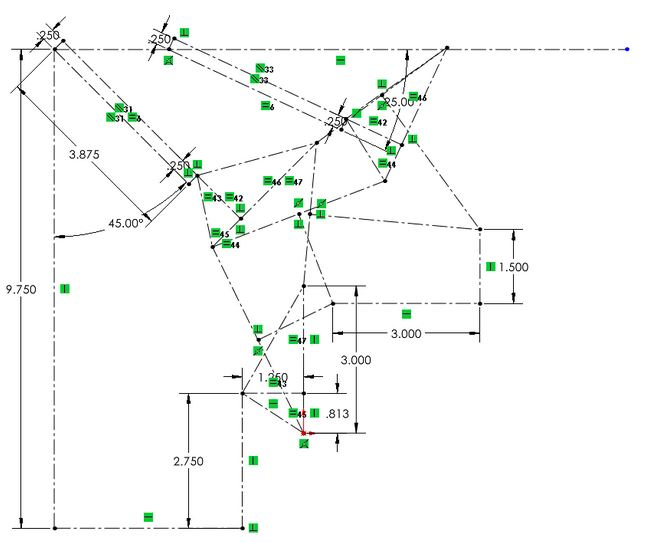
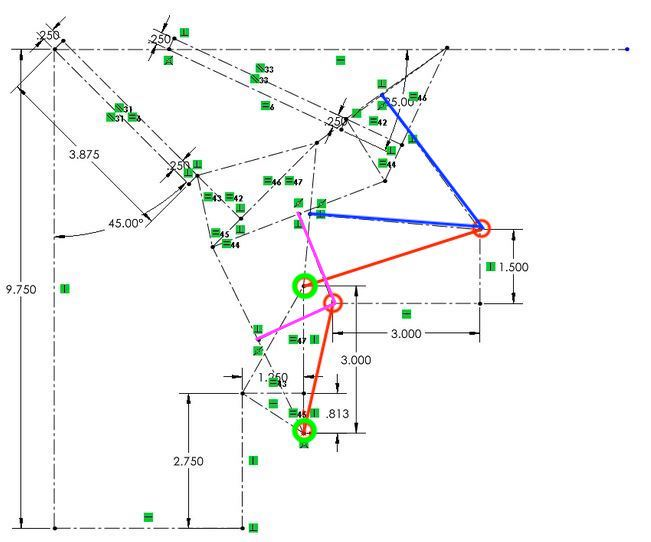
finally finished my RBE 2001 work. now time to move onto RBE 2002

diff --git a/rbe2001.html b/rbe2001.html
@@ -1,140 +1,239 @@
-<!DOCTYPE HTML>
+<!DOCTYPE html>
 <!--
 	Massively by HTML5 UP
 	html5up.net | @ajlkn
 	Free for personal and commercial use under the CCA 3.0 license (html5up.net/license)
 -->
 <html>
-	<head>
-		<title>Cristobal's Portfolio</title>
-		<meta charset="utf-8" />
-		<meta name="viewport" content="width=device-width, initial-scale=1, user-scalable=no" />
-		<link rel="stylesheet" href="assets/css/main.css" />
-		<noscript><link rel="stylesheet" href="assets/css/noscript.css" /></noscript>
-	</head>
-	<body class="is-preload">
+  <head>
+    <title>Cristobal's Portfolio</title>
+    <meta charset="utf-8" />
+    <meta
+      name="viewport"
+      content="width=device-width, initial-scale=1, user-scalable=no"
+    />
+    <link rel="stylesheet" href="assets/css/main.css" />
+    <noscript
+      ><link rel="stylesheet" href="assets/css/noscript.css"
+    /></noscript>
+  </head>
+  <body class="is-preload">
+    <!-- Wrapper -->
+    <div id="wrapper" class="fade-in">
+      <!-- Header -->
+      <header id="header">
+        <a href="index.html" class="logo">Cristobal's Portfolio</a>
+      </header>
 
-		<!-- Wrapper -->
-			<div id="wrapper" class="fade-in">
+      <!-- Nav -->
+      <nav id="nav">
+        <ul class="links">
+          <li><a href="index.html">About Me</a></li>
+          <li><a href="portfolio.html">Portfolio</a></li>
+          <li class="active">
+            <a href="rbe2001.html">Unified Robotics I: Actuation</a>
+          </li>
+        </ul>
+        <ul class="icons">
+          <li>
+            <a
+              href="https://www.linkedin.com/in/cristobalrincon/"
+              class="icon brands fa-linkedin"
+              ><span class="label">Linkedin</span></a
+            >
+          </li>
+          <li>
+            <a href="https://github.com/terracris" class="icon brands fa-github"
+              ><span class="label">GitHub</span></a
+            >
+          </li>
+        </ul>
+      </nav>
 
-				<!-- Header -->
-					<header id="header">
-						<a href="index.html" class="logo">Cristobal's Portfolio</a>
-					</header>
+      <!-- Main -->
+      <div id="main">
+        <!-- Featured Post -->
+        <article class="post featured">
+          <header class="major">
+            <span class="date">January, 2022</span>
+            <h2>Unified Robotics I: Actuation</h2>
+          </header>
+          <h3 style="text-align: left">Description</h3>
+          <p>
+            The final project task is to simulate robots tasked with replacement
+            of solar collector panels on planet with two suns. There will be two
+            types of solar collectors mounted at two different angles (see image
+            below). On each side of the solar farm roof there will be an old
+            solar panel. Teams will be required to have at least two different
+            robots with different fourbar designs, one with a regular
+            servo-actuated gripper, and one with a continuous rotation
+            servo-actuated gripper. <br />
+            <br />
 
-				<!-- Nav -->
-					<nav id="nav">
-						<ul class="links">
-							<li><a href="index.html">About Me</a></li>
-							<li><a href="portfolio.html">Portfolio</a></li>
-							<li class="active"><a href="rbe2001.html">Unified Robotics I: Actuation</a></li>
-						</ul>
-						<ul class="icons">
-							<li><a href="https://www.linkedin.com/in/cristobalrincon/" class="icon brands fa-linkedin"><span class="label">Linkedin</span></a></li>
-							<li><a href="https://github.com/terracris" class="icon brands fa-github"><span class="label">GitHub</span></a></li>
-						</ul>
-					</nav>
+            The first robot will need to autonomously remove an old panel and
+            place it on the staging block. The old panel will be replaced with a
+            new panel, which the robot will pick up and place it on the empty
+            spot on the roof. The first robot will then need to move to the
+            other side of the field and start line following as if to pick up
+            the old panel from the other side of the roof. The team will pause
+            the first robot with the IR remote and replace it with the second
+            robot in the same position. The second robot will proceed to remove
+            the old panel and replace it with a new panel.
+          </p>
+          <img class="image main" src="rbe2001/2001_arena.JPG" alt="" />
+          <p style="text-align: center">Arena in simulated environment</p>
 
-				<!-- Main -->
-					<div id="main">
+          <h3 style="text-align: left">Execution</h3>
+          <p>
+            In our robotics project, we utilized a differential drive robot, 
+			specifically the Pololu Romi, and were tasked with the development 
+			of two four-bar linkages and grippers. Let's delve into the process 
+			of synthesizing a four-bar linkage for a gripper.
+          </p>
 
-					<!-- Featured Post -->
-							<article class="post featured">
-								<header class="major">
-									<span class="date">January, 2022</span>
-									<h2>Unified Robotics I: Actuation</h2>
-								</header>
-									<h3 style="text-align: left;">Description</h3>
-                                    <p>The final project task is to simulate robots tasked with replacement of solar collector panels on
-                                        planet with two suns. There will be two types of solar collectors mounted at two different
-                                        angles (see image below). On each side of the solar farm roof there will be an old solar panel.
-                                        Teams will be required to have at least two different robots with different fourbar designs, one
-                                        with a regular servo-actuated gripper, and one with a continuous rotation servo-actuated
-                                        gripper. <br/> <br/>
+          <h4>Four-bar Synthesis</h4>
+          <img src="rbe2001/gripper_synthesis_pt1.JPG" alt="" />
+          <p>
+            We commenced our four-bar synthesis by taking inspiration from an initial 
+			gripper design. The first step involved identifying three crucial points of 
+			contact essential for effectively grasping a "solar panel" or plate. Notably, 
+			the attachment points on the right-hand side of the gripper served as the connection points 
+			between the gripper and the four-bar mechanism. Additionally, we considered a 
+			fixed point on the gripper, where the "solar panel" would come into contact, as 
+			a universal point in our four-bar analysis. This universal point remained consistent 
+			regardless of the gripper's orientation, leading us to disregard the dynamic bottom jaw 
+			whose position wasn't absolute.
+          </p>
+          <img src="rbe2001/gripper_synthesis_pt2.JPG" />
+          <p>
+            Illustrated below are three desired positions for our gripper or coupler. 
+			Ensuring that our gripper achieves these positions necessitates the use of 
+			Three-Position Synthesis to design our four-bar linkage.
+          </p>
+          
+		  <p>
+            Now, let me guide you through the synthesis process for a four-bar linkage with three desired coupler positions using a simplified diagram.
 
-                                        The first robot will need to autonomously remove an old panel and place it on the staging
-                                        block. The old panel will be replaced with a new panel, which the robot will pick up and place it
-                                        on the empty spot on the roof. The first robot will then need to move to the other side of the
-                                        field and start line following as if to pick up the old panel from the other side of the roof. The
-                                        team will pause the first robot with the IR remote and replace it with the second robot in the
-                                        same position. The second robot will proceed to remove the old panel and replace it with a new
-                                        panel. 
-                                    </p>
-								<img class="image main" src="rbe2001/2001_arena.JPG" alt="" />
-								<p style="text-align: center;">Arena in simulated environment</p>
+			<ol>
+				<li><p>Begin by drawing displacement vectors between points A1 and A2, A2 and A3, B1 and B2, and B2 and B3.</p></li>
+				<li><p>Identify the midpoint of each displacement vector: A1A2, A2A3, B1B2, and B2B3.</p></li>
+				<li><p>Draw perpendicular bisectors for each midpoint. The first ground joint, referred to as O2, is located at the intersection of the A1A2 and A1A3 bisector. Similarly, the second ground joint, referred to as O4, is located at the intersection of the B1B2 and B2B3 bisector.</p></li>
+				<li><p>Connect O2 to A1 and O4 to B1 with links.</p></li>
+				<li><p>Once all links are drawn, the synthesis of the four-bar mechanism is complete.</p></li>
+			</ol>
 
-								<h3 style="text-align: left;">Execution</h3>
-								<p>
-									My team and I were given a differential drive robot (Pololu Romi) and had to develop two four-bar linkages and grippers.
-									First, let's discuss the four bar synthasis for a gripper.  
-								</p>
+          </p>
+          <img class="image fit" src="rbe2001/gripper_synthesis_pt4.JPG" />
 
-								<h4>Four-bar Synthesis</h4>
-								<img src="rbe2001/gripper_synthesis_pt1.JPG" alt=""/>
-								<p>
-									My team and I started with this example gripper. We began our four-bar Synthesis
-									by selecting three main points of contact, critical to successfully grasping an
-									a "solar panel" or plate. The two points on the right hand side are the attachment
-									points of the gripper to the four bar. In addition, we considered the fixed point 
-									of the gripper where a "solar panel" would make contact with to be a universal point
-									in our four-bar analysis. That is, we chose points that regardless of the orientation
-									would hold true. Hence why did not consider the dynamic bottom jaw of the gripper (it's position was not absolute).
-								</p>
-								<img src="rbe2001/gripper_synthesis_pt2.JPG"/>
-								<p style="text-align: center;">Here we see three positions we want our gripper or coupler to be in. Therefore, our four bar linkage must ensure
-									that our gripper achieves these positions. We used Three position synthesis to synthesize our fourbar. 
-								</p>
-								<img src="rbe2001/gripper_synthesis_pt3.JPG"/>
-								<img class="image main" src="rbe2001/gripper_synthesis_pt4.JPG" />
-								<p>
-									
-								</p>
-							</article>
-							
-						<!-- Footer -->
-							<footer>
-								<div class="pagination">
-									<!--<a href="#" class="previous">Prev</a>-->
-									<a href="#" class="page active">1</a>
-									<a href="#" class="page">2</a>
-								</div>
-							</footer>
+		  <p>The image below is what our diagram looked like. The lower green circle represents A1, whereas the green one above represents B1. The magenta lines 
+			represent the perpendicular bisectors for distance vectors A1A2 and A2A3. The blue lines represent the perpendicular bisectors for distance vectors B1B2 Additionally B2B3. 
+			The red circles represent the ground joints found. The red lines symbolize the links connecting the ground joints to A1 and B1. From this sketch, we found the required link lengths
+			for our four bar mechanism.
+		  </p>
+		   <img src="rbe2001/gripper_synthesis_pt3.JPG" />
+       <h3 style="text-align: left;">Result</h3>
+       <img class="image fit" src="rbe2001/duncan.png"/>
+       <img class="image fit" src="rbe2001/exploded_view.png"/>
 
-					</div>
+       <p>Behold! This is our robot Duncan (named after Dunkin Donuts)</p>
+       <p>Our robot features a two-stage transmission system</p>
 
-				<!-- Footer -->
-					<footer id="footer">
-					
-						<section class="split contact">
-							<section>
-								<h3>Email</h3>
-								<p><a href="mailto:chrisrincon23@gmail.com">chrisrincon23@gmail.com</a></p>
-							</section>
-							<section>
-								<h3>Social</h3>
-								<ul class="icons alt">
-									<li><a href="https://www.linkedin.com/in/cristobalrincon/" class="icon brands fa-linkedin"><span class="label">Linkedin</span></a></li>
-									<li><a href="https://github.com/terracris" class="icon brands fa-github"><span class="label">GitHub</span></a></li>
-								</ul>
-							</section>
-						</section>
-					</footer>
+       <h3 style="text-align: left;">Autonomous Control</h3>
+       <img class="image fit" src="rbe2001/Sensors.png">
 
-				<!-- Copyright -->
-					<div id="copyright">
-						<ul><li>&copy; Cristobal</li><li>Design: <a href="https://html5up.net">HTML5 UP</a></li></ul>
-					</div>
+      <p>Our robot autonomously navigated the field using various sensors. We used the following:
+        <ol style="text-align: left;">
+          <li>Ultrasonic Sensors</li>
+          <li>Reflactance Sensors</li>
+          <li>Magnetic Encoders</li>
+          <li>Infrared Receiver</li>
+        </ol>
+      </p>
 
-			</div>
+      <p>Our Reflactance sensors were used for line following whereas our ultrasonic sensors were used to ensure we were at the optimum distance
+        from the structures to collect the solar panels and validate our positioning.</p>
 
-		<!-- Scripts -->
-			<script src="assets/js/jquery.min.js"></script>
-			<script src="assets/js/jquery.scrollex.min.js"></script>
-			<script src="assets/js/jquery.scrolly.min.js"></script>
-			<script src="assets/js/browser.min.js"></script>
-			<script src="assets/js/breakpoints.min.js"></script>
-			<script src="assets/js/util.js"></script>
-			<script src="assets/js/main.js"></script>
+      <h3 style="text-align: left;"> What did I learn?</h3>
+      <p>In this project, I developed my skills in mechanical design. I learned about how to synthesize a four bar mechanism for applications that require 
+        control of several positions within one degree of freedom. 
 
-	</body>
+        I learned about toggle points, transmission angles, and mechanical advantage to improve my designs. 
+
+        Most importantly, I learned about the limitations of 3d printed materials to widstand stress and levergage the properties of 3d printed materials
+        to maximize their strength while minimizing its weight. 
+
+        Lastly, I learned about the significance of center of mass. The center of mass our four bar attachment, was infront of the center of mass of our robot. 
+        This resulted in wheel slipping increasing the error in our odometry, tipping if a counterweight was not added, and increased the power requirements of our motors
+        for locomotion. If my team and I had more time, we would design our components to ensure that the center of mass remains as close to the center as possible. 
+
+        I learned about state machines and timer interrupts to infrared sensors to disrupt the execution of code and jump to a different state in the state machine. 
+
+        For view the final presentation containing videos, click on the <a href="https://docs.google.com/presentation/d/1LwiO8UVGCrIsHyBTxljtBUlLGOBnXLKu9kWVNR01uIs/edit?usp=sharing">link.</a>
+      </p>
+
+
+
+      </article>
+
+        <!-- Footer -->
+        <footer>
+          <div class="pagination">
+            <!--<a href="#" class="previous">Prev</a>-->
+            <a href="#" class="page active">1</a>
+            <a href="#" class="page">2</a>
+          </div>
+        </footer>
+      </div>
+
+      <!-- Footer -->
+      <footer id="footer">
+        <section class="split contact">
+          <section>
+            <h3>Email</h3>
+            <p>
+              <a href="mailto:chrisrincon23@gmail.com"
+                >chrisrincon23@gmail.com</a
+              >
+            </p>
+          </section>
+          <section>
+            <h3>Social</h3>
+            <ul class="icons alt">
+              <li>
+                <a
+                  href="https://www.linkedin.com/in/cristobalrincon/"
+                  class="icon brands fa-linkedin"
+                  ><span class="label">Linkedin</span></a
+                >
+              </li>
+              <li>
+                <a
+                  href="https://github.com/terracris"
+                  class="icon brands fa-github"
+                  ><span class="label">GitHub</span></a
+                >
+              </li>
+            </ul>
+          </section>
+        </section>
+      </footer>
+
+      <!-- Copyright -->
+      <div id="copyright">
+        <ul>
+          <li>&copy; Cristobal</li>
+          <li>Design: <a href="https://html5up.net">HTML5 UP</a></li>
+        </ul>
+      </div>
+    </div>
+
+    <!-- Scripts -->
+    <script src="assets/js/jquery.min.js"></script>
+    <script src="assets/js/jquery.scrollex.min.js"></script>
+    <script src="assets/js/jquery.scrolly.min.js"></script>
+    <script src="assets/js/browser.min.js"></script>
+    <script src="assets/js/breakpoints.min.js"></script>
+    <script src="assets/js/util.js"></script>
+    <script src="assets/js/main.js"></script>
+  </body>
 </html>

diff --git a/assets/css/main.css b/assets/css/main.css
@@ -2622,6 +2622,7 @@ input, select, textarea {
 			display: block;
 			margin: 2.5rem 0;
 			width: 100%;
+
 		}
 
 			.image.fit:first-child {
